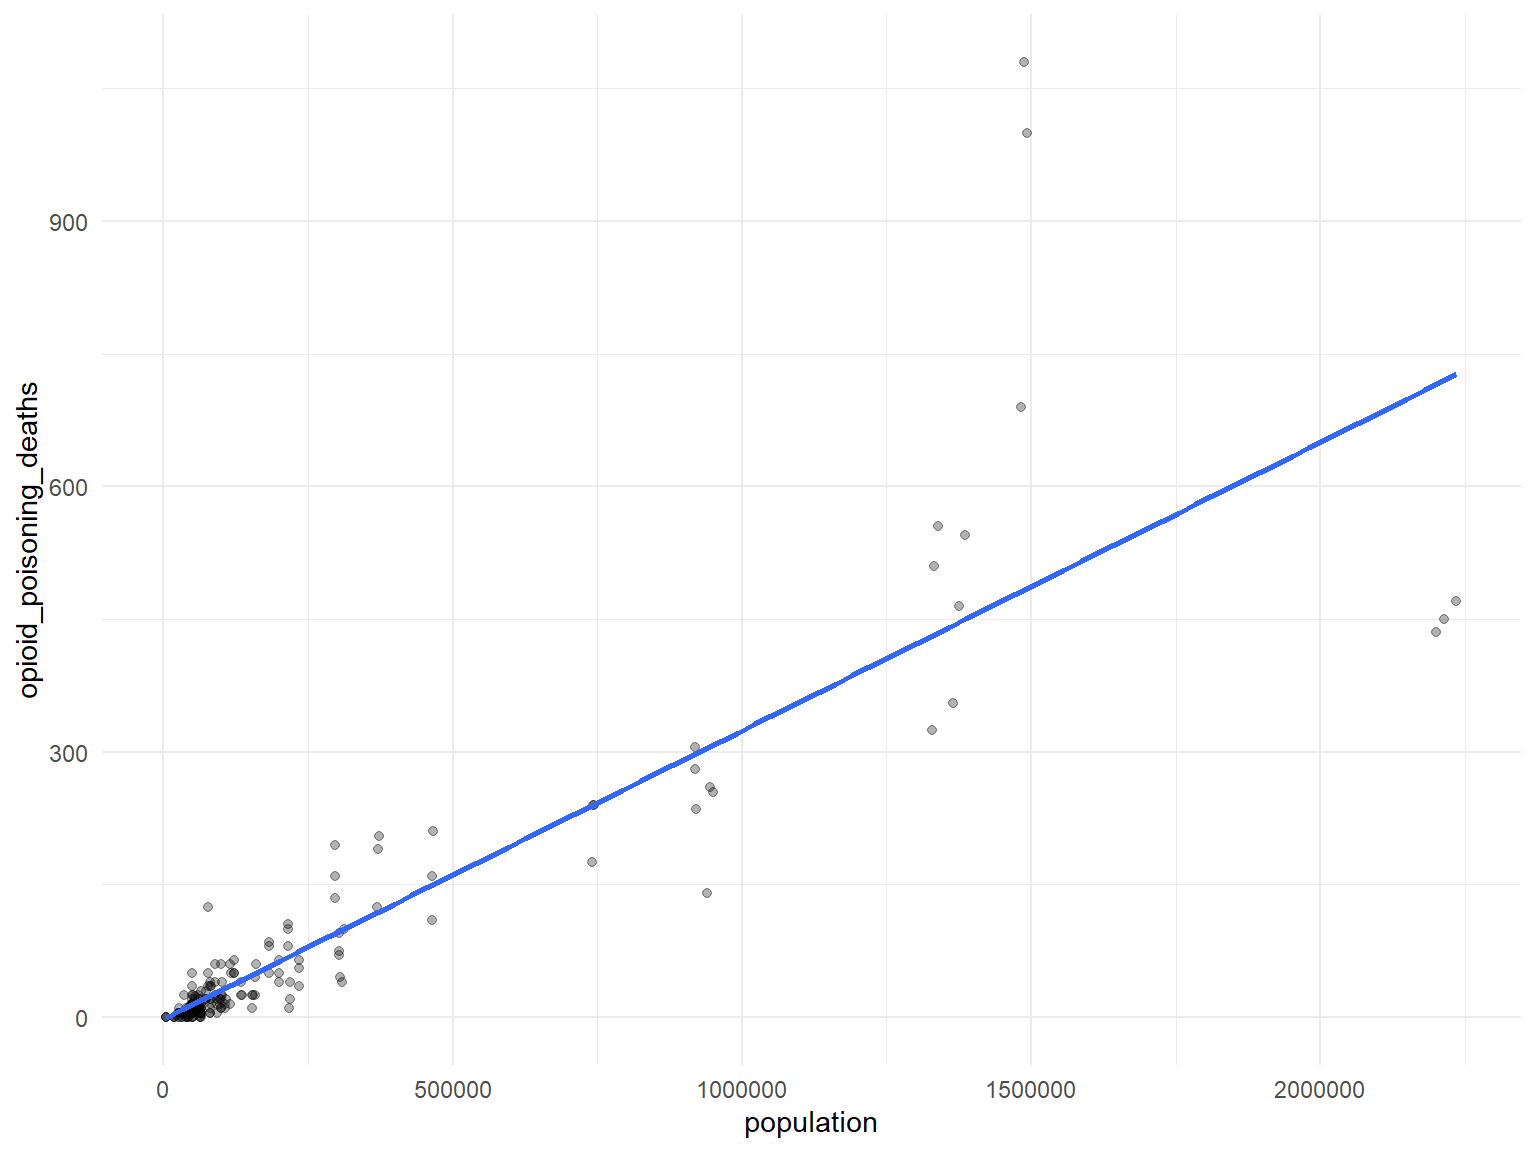
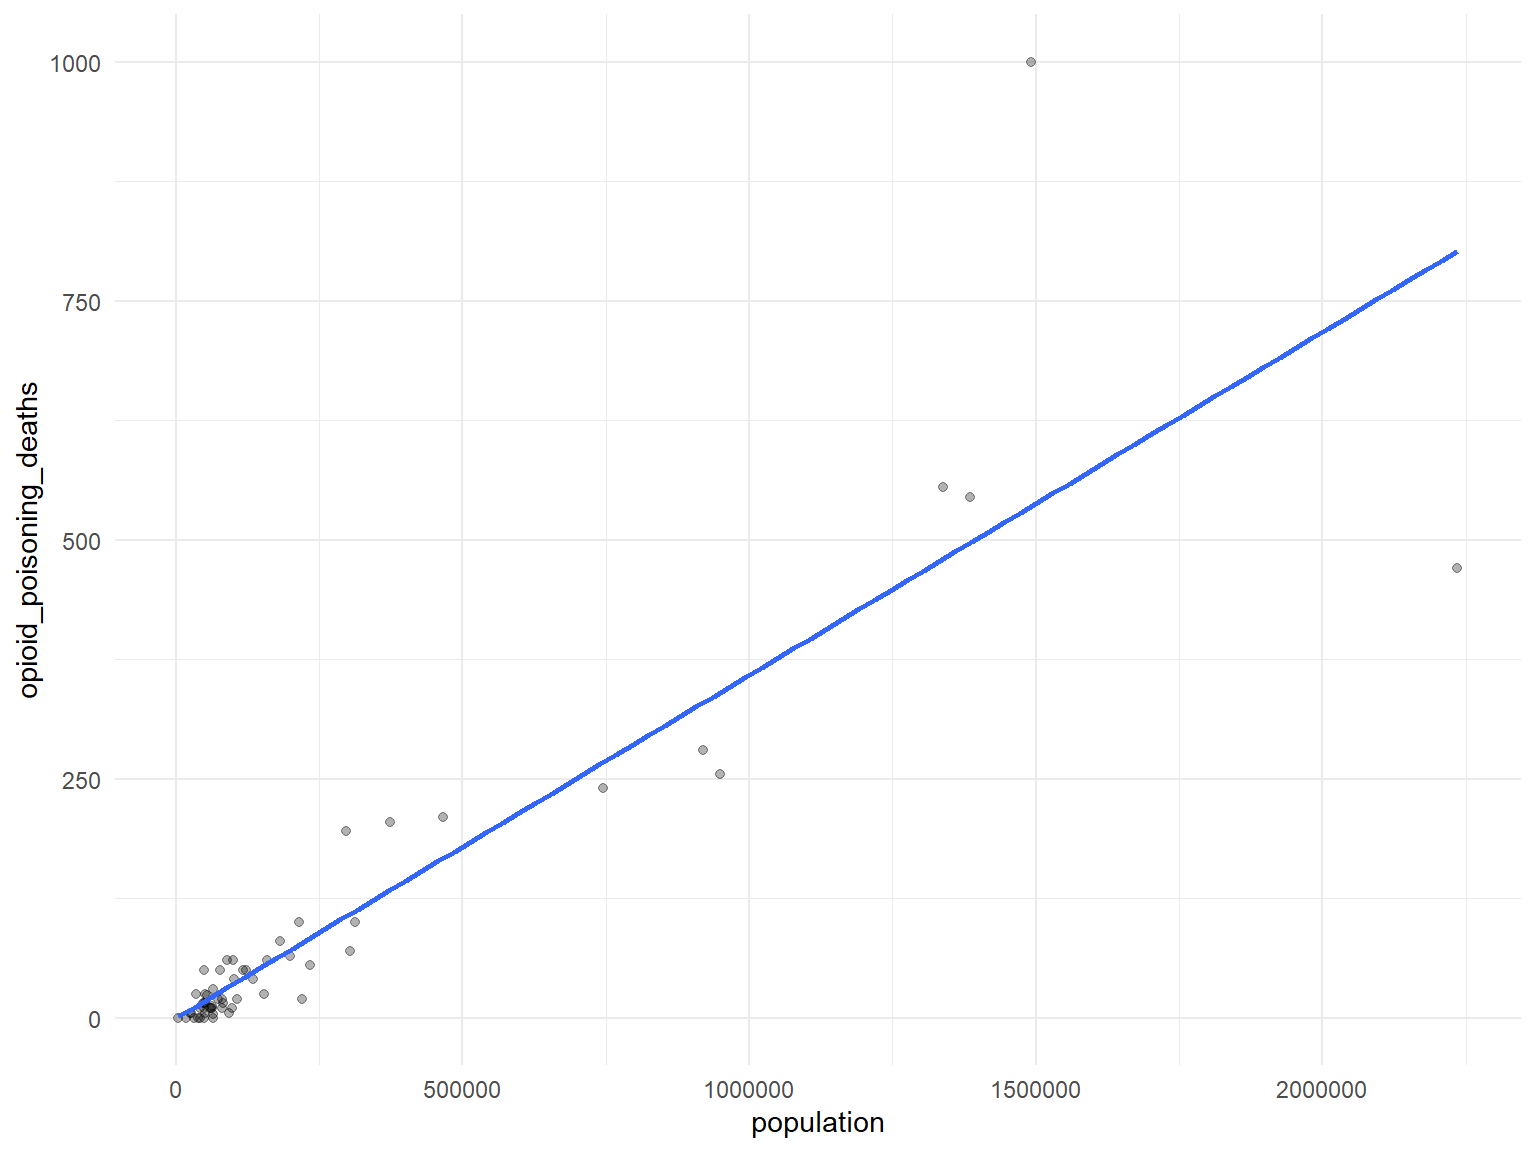
minor edits

diff --git a/final_project_jsg.html b/final_project_jsg.html
@@ -427,7 +427,9 @@ pharma_df = left_join(prod_county, county_pop, by = c(&quot;buyer_county&quot;, 
 <pre class="r"><code>rural_urban_df %&gt;% 
   ggplot(aes(x = year, y = opioid_poisoning_deaths/population*10000, color = rural_urban)) +
   geom_point(alpha = 0.3) +
-  geom_smooth(method = &quot;lm&quot;, se = FALSE)</code></pre>
+  geom_smooth(method = &quot;lm&quot;, se = FALSE) +
+  ylab(&quot;Opioid Deaths per 10,000&quot;) +
+  scale_x_continuous(breaks = c(2010, 2011, 2012), labels = c(&quot;2010&quot;, &quot;2011&quot;, &quot;2012&quot;))</code></pre>
 <p><img src="final_project_jsg_files/figure-html/unnamed-chunk-1-1.png" width="90%" /></p>
 </div>
 <div id="spaghetti-plots" class="section level2">
@@ -509,22 +511,25 @@ int_slope_df =
 <div id="opioid-deaths-are-endemic" class="section level2">
 <h2>opioid deaths are endemic</h2>
 <pre class="r"><code>death_sales_dat %&gt;%
+  filter(year == 2) %&gt;% 
   ggplot(aes(x = population, y = opioid_poisoning_deaths)) +
   geom_point(alpha = 0.3) +
   geom_smooth(method = &quot;lm&quot;, se = FALSE) +
   theme(legend.position = &quot;none&quot;)</code></pre>
 <p><img src="final_project_jsg_files/figure-html/endemic-1.png" width="90%" /></p>
 <pre class="r"><code>death_sales_dat %&gt;%
+  filter(year == 2) %&gt;% 
   ggplot(aes(x = pills_bought, y = opioid_poisoning_deaths)) +
-  geom_point(alpha = 0.3) +
+  geom_point() +
   geom_smooth(method = &quot;lm&quot;, se = FALSE) +
   theme(legend.position = &quot;none&quot;)</code></pre>
-<p><img src="final_project_jsg_files/figure-html/unnamed-chunk-12-1.png" width="90%" /></p>
+<p><img src="final_project_jsg_files/figure-html/pill%20count%20v%20opioid%20deaths%20in%202012-1.png" width="90%" /></p>
 <pre class="r"><code>death_sales_df %&gt;% 
+  filter(year == 2012) %&gt;% 
   ggplot(aes(x = population, y = pills_bought)) +
   geom_point() +
   geom_smooth(method = &quot;lm&quot;, se = FALSE)</code></pre>
-<p><img src="final_project_jsg_files/figure-html/unnamed-chunk-13-1.png" width="90%" /></p>
+<p><img src="final_project_jsg_files/figure-html/pill%20count%20v%20population%20in%202012-1.png" width="90%" /></p>
 </div>
 
 
